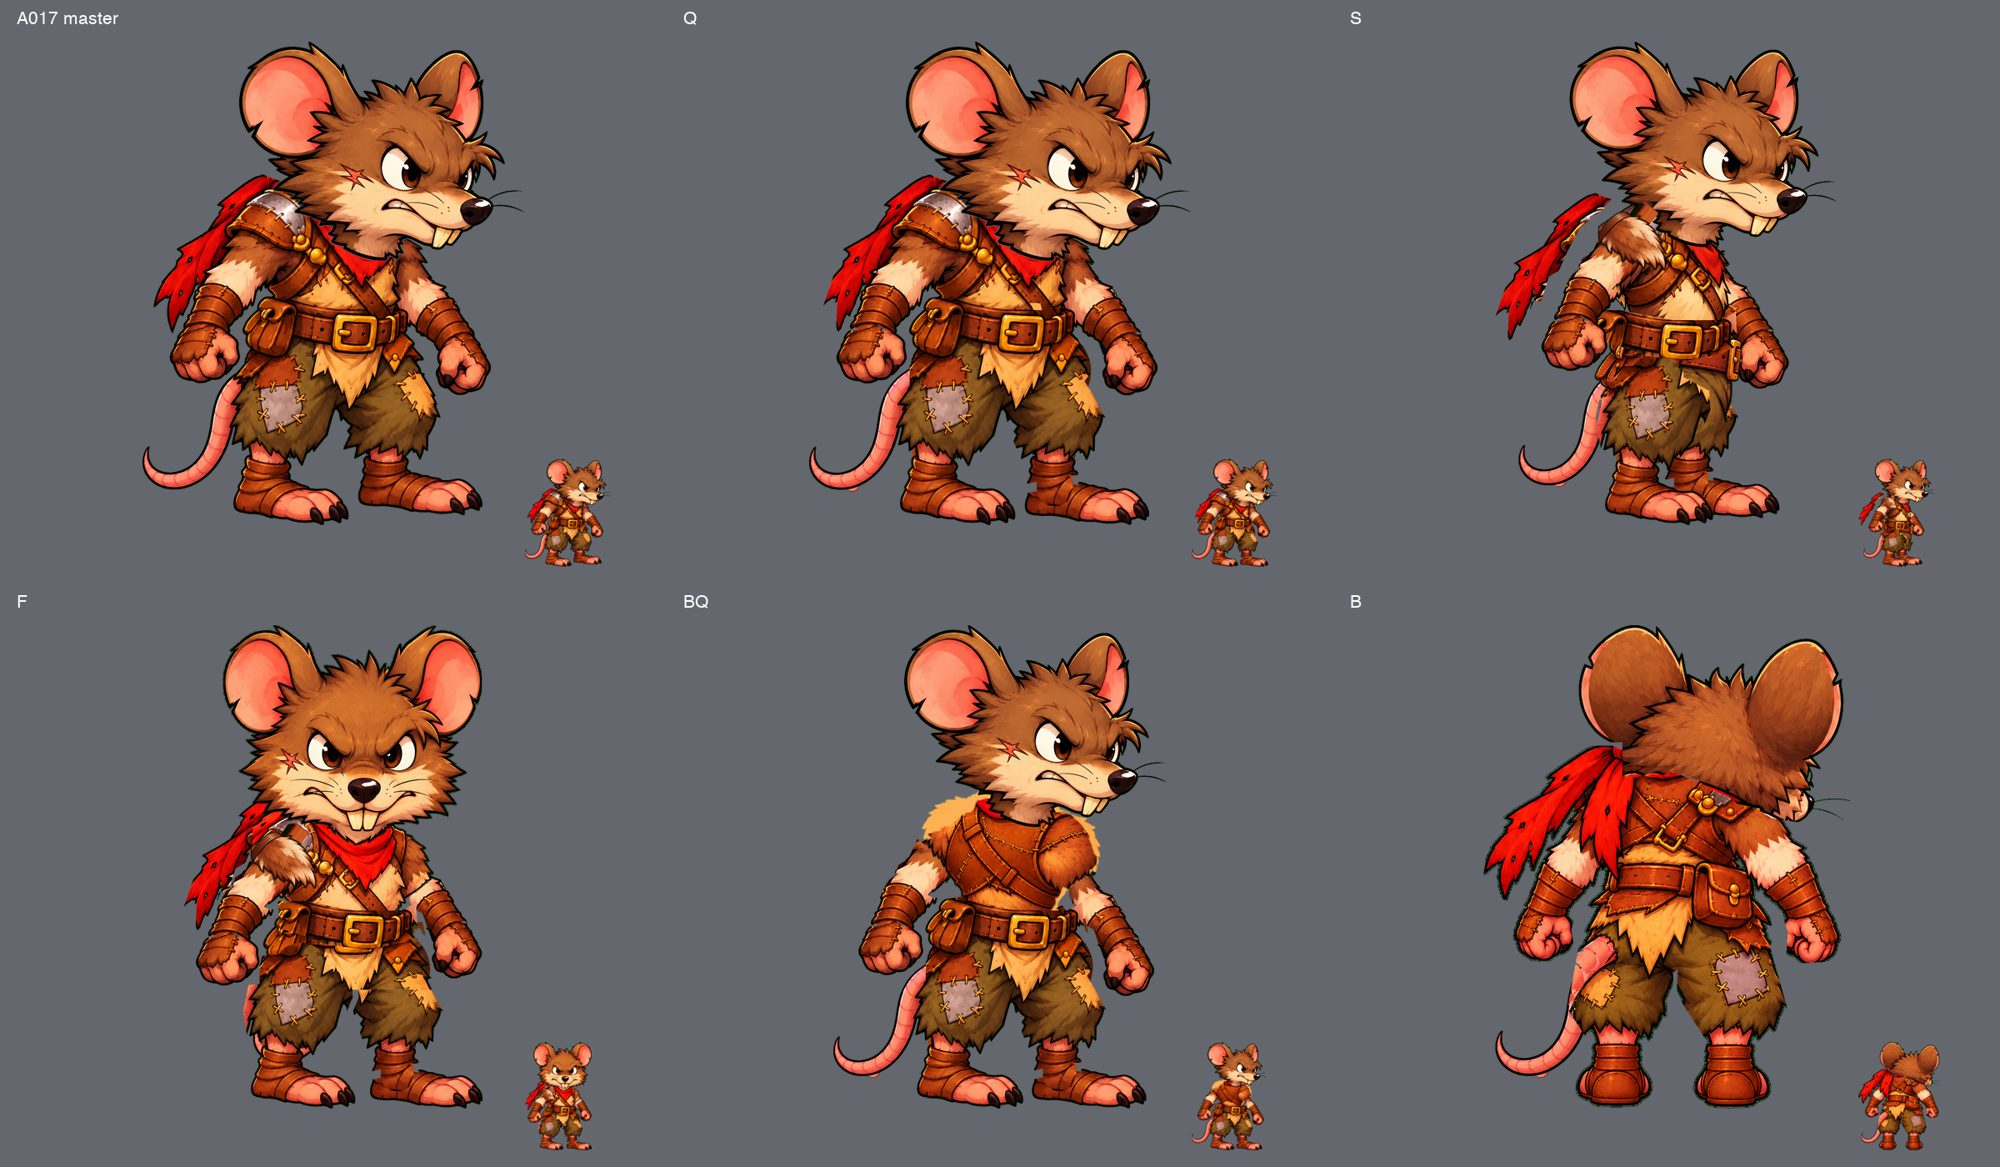
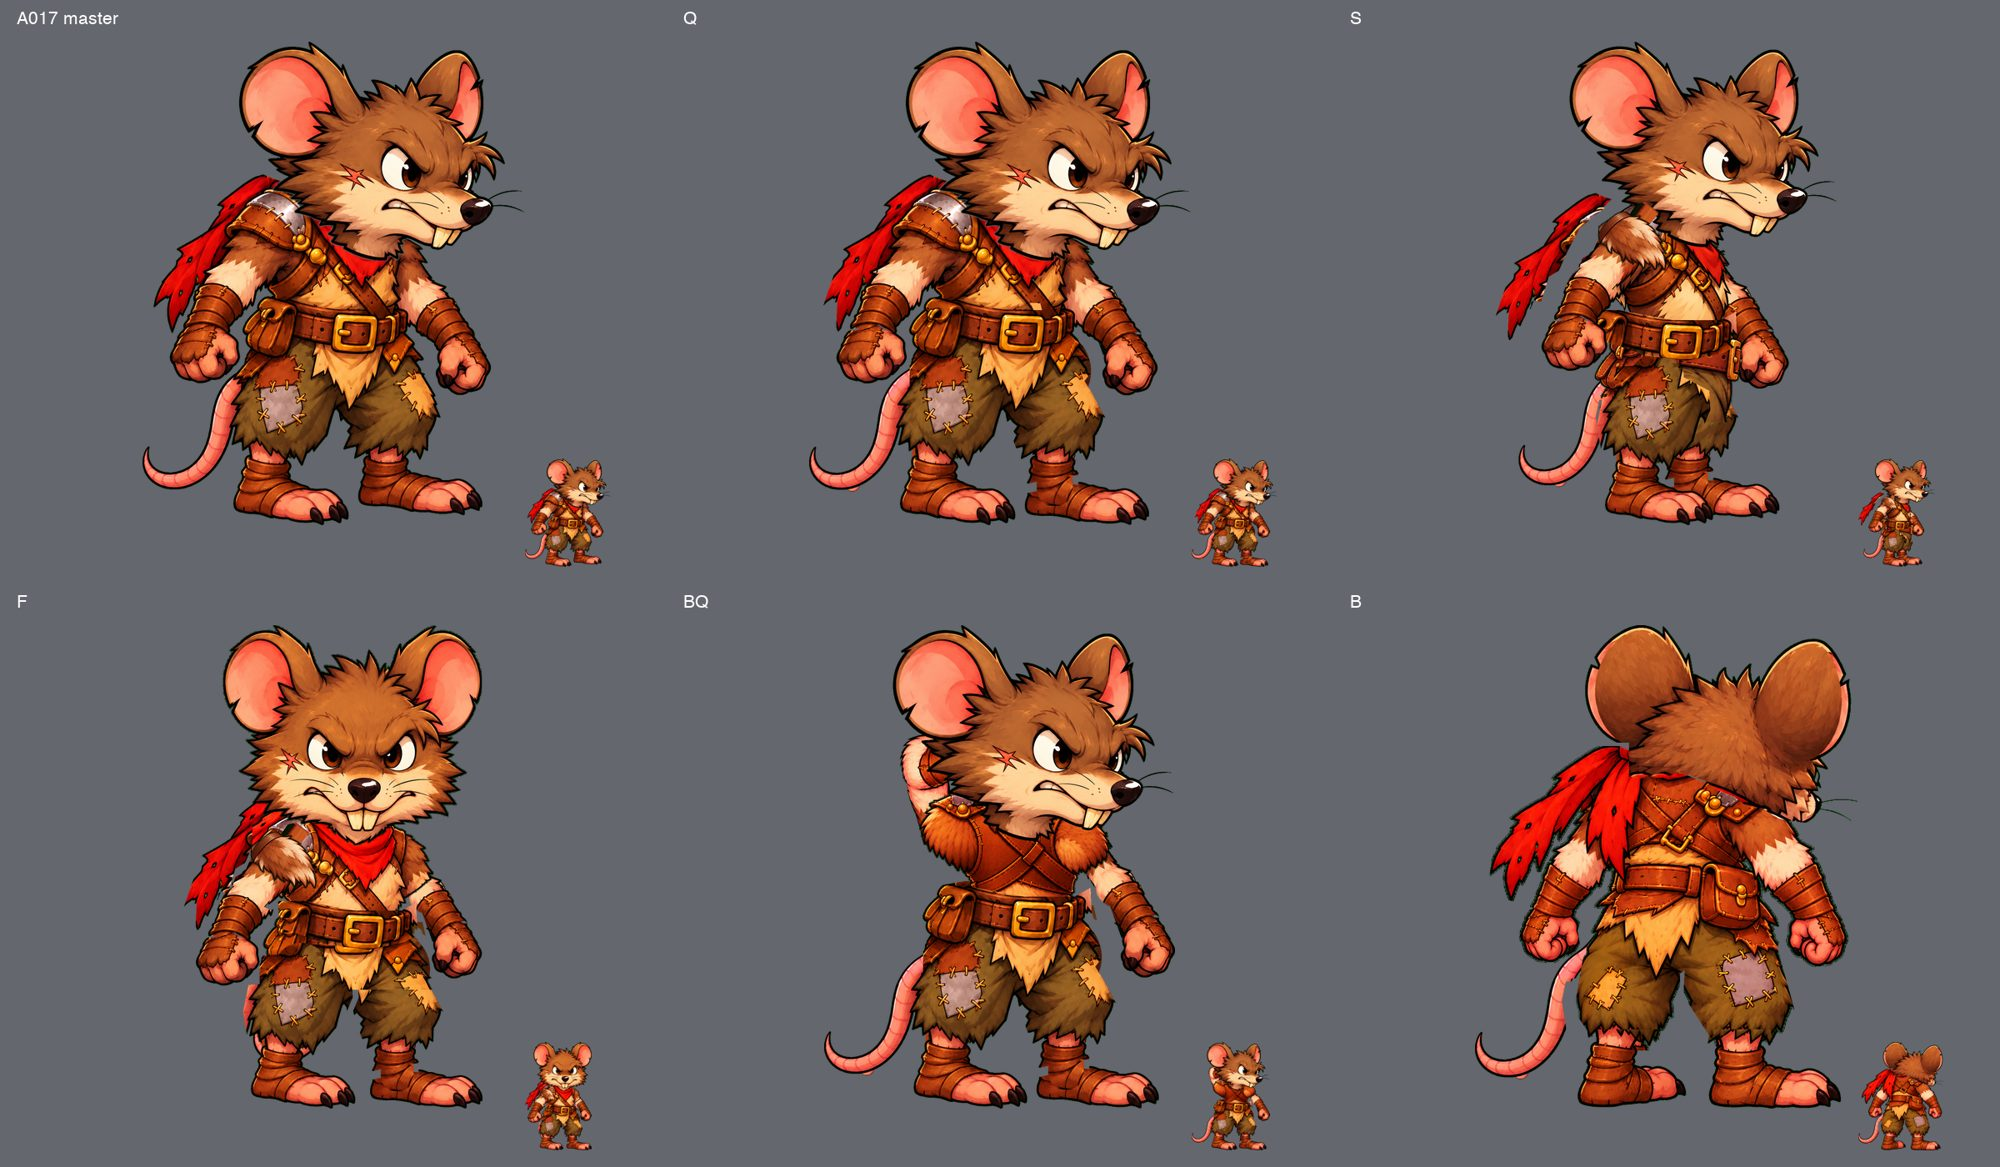
A023 round 3: fix rat rear feet, thumb and tail; redraw away torso

Changed region(s): [[0.713, 0.5244, 0.992, 0.9871], [0.403, 0.5244, 0.651, 0.9871], [0.806, 0.5244, 0.837, 0.5553]]

diff --git a/assets/source/A023-rat-complete-kit/HANDOFF.md b/assets/source/A023-rat-complete-kit/HANDOFF.md
@@ -1,91 +1,27 @@
-# A023 Round 2 — Rat repairs
+# A023 Round 3 — rear fixes and turned-away torso
 
-Branch: `a023-r2-rat-repairs`. Source delivery only; **do not merge automatically**. Built from main `0664c16` after pulling. Earlier A018/A019/A022 source folders are untouched.
+Branch: `a023-r3-rat-back-fixes`. Based on pulled main `03a06cf`. Source delivery; pushed for review, **do not merge automatically**.
 
-## Round 2 items 1–9
+## Delivered
 
-1. Extended both default thighs and all three whole-leg keys with hidden native cloth. Default thigh extensions are clipped beneath the resting torso/belt to avoid exposed cloth patches. Every torso and pelvis view has a deeper waist overlap; minimum central neutral overlap across all 28 combinations is 96 source px (requirement 40). `review-hips` isolates -30/0/+60 degree thigh rotations. This is a source joint proof, not a complete posed move.
-2. Front seat now continues into native upper-thigh material instead of a horizontal cropped edge. Back seat and rear thighs are cut from the same back drawing.
-3. Both shoulder caps are simplified fur/leather joint covers, with no duplicate metal trim or button row. The torso owns its baked pauldron. Show the cap only when the swung upper arm needs it; otherwise keep it hidden.
-4. Replaced `torso-away`; near shoulder attaches at the left/back edge and the wind-up arm is behind the body. Added all six requested back leg/foot cuts, plus rear upper/lower arms and hands for both sides. `torso-back` and `pelvis-back` use the matching back reference. Feet show heels toward camera. `review-back` compares the actual assembled BQ/B cuts with A017's back reference. Back head is still the inherited, unchanged head-back.
-5. The packet's `tools/bench/pose-seams-known.js` and pose-seam phone sheets are absent from this pulled main; no additional lead-listed joint list is present. No runtime tests or code were modified. Full T026/T028/T029 rehearsal is still required.
-6. Five split grip pairs: solid knuckle-side near side/overhand; existing near pinch split; new palm-side far grip; accepted far overhand split. Every pair includes `<name>-under`, same original hand pivot, handle centre/direction and layer order in `grips`. `review-grips` shows actual under → handle → face sandwiches. There is no shaft slot cut through either near grip back. Near grip edits start with the native-master fist, not a text-only generated hand.
-7. Added `belt.png`, a separate actual-master belt/buckle cut, child of pelvis at `(774,1460)`, band 640 above torso 600. Keep it pelvis-bound when the torso leans. The B view already has a rear belt on its seat: use that, not a front buckle over the back.
-8. Extended all seven flat/toe/heel/out feet and both rear feet. Tops are at or above y1680, at least 65 source px above the shared y1745 knee/hem reference. Existing foot extensions are 80–142 px beyond their old upper bounds. Shin bands are above feet in all views.
-9. Repaired only the embedded fist regions of `arm-near-cocked`, `arm-near-raised` (back of glove/knuckles) and `arm-far-raised-back` (palm). Forearm/upper-arm paint outside the wrist masks remains inherited, apart from replacing striped hidden near-shoulder extension material with native fur. `arm-near-mouth`, `arm-far-guard`, `arm-far-raised` are untouched.
+- `foot-near-back.png`, `foot-far-back.png`: recut from the approved A017 back reference, with heel toward camera and toes angled right. Matching `leg-near-lower-back.png` and `leg-far-lower-back.png` recuts remove the old straight-away heel painted into the lower shin. Feet continue to y1680 in anatomical B setup, 65 source px above y1745, hidden under shin/thigh.
+- `hand-near-back.png`: viewer-right B hand. Wider recut from the accepted round-2 rear drawing retains the whole thumb. Arm drawings and approved split grip pairs are untouched.
+- `pelvis-back.png`, `leg-far-upper-back.png`: local inpainting removes baked-in pink tail paint and reconstructs hidden cloth. Separate tail images are unchanged. The B tail bands now sit **below pelvis** and the rear tail anchor is `(490,1525)`, so the outlined tail emerges beside the trousers with its end covered. This supersedes the older view table's instruction to put the back tail in front.
+- `torso-away.png`: reference-guided back-panel redraw, crossed straps and back scarf knot, near shoulder drawn back. Same inherited torso pivot; updated neck/shoulder anchors. Q hips and existing neutral head are retained for the twisted wind-up; head looks back toward the right-hand target. No new pelvis-away or head drawing.
 
-## Import notes
+Eight changed cut PNGs, updated `rig-source.json`, `views.png`, `turn.png`, `review.png`, `review-views.png`, `review-back.png`, `review-r3-back.png`, `review-r3-turn.png`, exact prompts in `prompt.md`. Phone copies: `docs/screens/A023/r3-back.jpg` and `r3-turn.jpg`; overview and B/BQ copies refreshed. All new review JPGs are quality 82, long side <=2000.
 
-Merge this fragment after A018, A019, A022 and A023 round 1. Honor every entry's `source` path. New/repaired files are all in A023, on the unchanged 1536 × 2304 canvas and inherited pivots. No earlier source files or runtime files were changed.
+## Import and reproduce the proofs
 
-- `viewSwaps.B` selects all twelve rear limb cuts. **`viewJointPositions.B` records their anatomical rear setup positions**, used by the proof, while each image's pivot stays the inherited part pivot. Pose/attach these positions before rehearsing B; using Q lower-limb offsets will misalign the rear cuts. The maps are source metadata for Code to import, not implemented runtime behavior.
-- `grips[name].order` is `[under, held-item, face]`. The under image shares the hand pivot and must move with the same hand transform. It is not another independently posed hand. Do not put a weapon over a solid near-hand back.
-- `belt` is a normal `parts` entry. B uses its native rear belt; other views use the separate cover. Avoid drawing the buckle twice. Caps hide when the torso itself closes the shoulder.
-- Whole-arm swaps retain inherited `hide`, `itemGrip`, `slotDirection` and joint metadata. Embedded grip positions must be checked with actual cutlass/club/bow art in the viewer.
+Merge the fragment after prior A018/A019/A022/A023 data; honor each source path. All cut images are 1536 × 2304 on exact green, and all repaired pivots are unchanged. No runtime files were edited.
 
-## Files and reviews
-
-52 repaired/added cut PNGs (inventory below), updated `rig-source.json`, exact built-in imagegen prompts in `prompt.md`, all-source inventory `review.png`, readable `review-summary.png`, `review-back`, `review-grips`/`review-hands`, `review-hips`, `review-waist`, `review-arms`, `review-feet`, `review-rest`, `review-views`, `views.png`, `turn.png`. Existing untouched round-1 assets and `reference.png` remain in the kit. Every review image has a quality-82 JPG copy in `docs/screens/A023/`, longest side <=2000; the readable entry is `review-summary.jpg`.
+- Use the existing B `viewSwaps` and `viewJointPositions` for rear limbs; source pivots differ from assembled rear positions. Keep shin above foot and cuff above hand.
+- B `tail-1/2/3` bands are 300/310/320, below pelvis 400. Apply the updated pelvis-back tail anchor. Do not retain the old 430/440/450 tail bands.
+- `torso-away` neck `(805,1180)`, near shoulder `(550,1160)`, far shoulder `(982,1170)`, waist `(776,1382)`. Pivot remains `(776,1382)`. Near arm is entirely behind torso. `reviewPoses.BQ` records the source proof's cocked-arm transform; this is a static pose recipe, not a runtime change.
+- `turn.png` / `review-r3-turn.png` show Q → BQ → B at native cut scale and 136 px character height. `review.png` also shows 130 px assemblies over harbor art. These images are composed from delivered parts, not painted-over full characters.
 
 ## Validation and limitations
 
-All 52 cuts pass same-canvas, unchanged-pivot and single 8-connected foreground component checks after green keying. Source backgrounds are normalized to exact #00FF00. Neutral waist overlap and foot-top measurements are source checks; they do not establish every motion frame or every extreme lean.
+All eight changed cuts pass single 8-connected foreground, same-canvas, exact-green corner and unchanged-pivot checks. The new torso's central neutral overlap with the retained Q pelvis is at least **87 source px** (40 required). `round3Validation` records results. Scope is A023 sources, A023 phone copies and the A023 asset row only.
 
-Rest paint comparison: strong RGB differences (>40 in any channel) inside the eroded master silhouette are 2.6681%; 14,989 rest pixels change from the preceding assembled sources. `review-rest` shows master, before and after. This is not a pixel-identical-master claim.
-
-**Visible-paint preservation is not complete for the new back/away views and shoulder covers:** imagegen repainted those reference-guided surfaces. Hand edits also repaint the intended finger/glove regions. Rear cuts have straight hidden cut edges and must remain overlapped. Foot tongues and near-shoulder extensions contain stretched native material intended only under covers; they may expose unattractive paint at unsupported rotations. BQ's inherited ankle edge, wrist joins in the raised keys, cap transitions, seat transitions and all actual weapon holds still need the phone viewer and full move rehearsal. No G3/human acceptance or zero-runtime-seam claim is made. Nothing in the round-2 drawing inventory is intentionally omitted; runtime verification from item 5 remains open.
-
-## Repaired/added image inventory
-
-- `leg-near-upper.png`
-- `leg-far-upper.png`
-- `leg-near-kneeling.png`
-- `leg-near-kneeup.png`
-- `leg-far-folded.png`
-- `foot-near.png`
-- `foot-far.png`
-- `foot-near-toe.png`
-- `foot-far-toe.png`
-- `foot-near-heel.png`
-- `foot-far-heel.png`
-- `foot-near-out.png`
-- `torso.png`
-- `torso-side.png`
-- `torso-back.png`
-- `torso-front.png`
-- `torso-hunched.png`
-- `torso-lean-back.png`
-- `pelvis.png`
-- `pelvis-side.png`
-- `pelvis-front.png`
-- `pelvis-back.png`
-- `belt.png`
-- `shoulder-near.png`
-- `shoulder-far.png`
-- `leg-near-upper-back.png`
-- `leg-far-upper-back.png`
-- `leg-near-lower-back.png`
-- `leg-far-lower-back.png`
-- `foot-near-back.png`
-- `foot-far-back.png`
-- `arm-near-upper-back.png`
-- `arm-near-lower-back.png`
-- `hand-near-back.png`
-- `arm-far-upper-back.png`
-- `arm-far-lower-back.png`
-- `hand-far-back.png`
-- `torso-away.png`
-- `hand-near-grip.png`
-- `hand-near-grip-overhand.png`
-- `hand-far-grip.png`
-- `hand-near-grip-under.png`
-- `hand-near-grip-overhand-under.png`
-- `hand-near-pinch.png`
-- `hand-near-pinch-under.png`
-- `hand-far-grip-under.png`
-- `hand-far-grip-overhand.png`
-- `hand-far-grip-overhand-under.png`
-- `arm-near-cocked.png`
-- `arm-near-raised.png`
-- `arm-far-raised-back.png`
-- `arm-near-upper.png`
+The turned-away torso and tail-covered cloth are reference-guided repaint, not pixel-identical master paint. BQ retains Q hips and head for a torso-twist wind-up; the turn's anatomical readability still needs the user's viewer judgment. Hidden straight cut edges require the stated overlaps. Existing Q ankle notches and inherited rear head/scarf junction are outside this round. Runtime motion, extreme rotations, tail attachment and every rehearsal move still need Code's import and seam checks; no runtime or human-acceptance claim is made. No requested source drawing is intentionally omitted.

diff --git a/assets/source/A023-rat-complete-kit/prompt.md b/assets/source/A023-rat-complete-kit/prompt.md
@@ -253,3 +253,28 @@ undefined
 ```
 
 Processing: the native fist edit supplies both near grips; the overhand rotates the same solid knuckle face. Pinch and far overhand keep existing paint, split into two layers. Whole-arm edits are accepted above a wrist mask only; original forearm/upper-arm pixels are restored below. Back reference is cut into rear arms, legs, heels, torso and seat, each translated onto inherited pivots. `viewJointPositions.B` records the rear setup positions used in the proof. Hidden extensions use native material under original paint; default thighs are clipped to rest torso/belt coverage to avoid exposed patches. New view paint and cap paint are reference-guided redraws and are not pixel-identical master cuts.
+
+# Round 3 exact prompts
+
+Tool: built-in `image_gen.imagegen`, edit mode. No seed exposed. All calls use flat green backgrounds. Mechanical processing: green-key extraction, largest 8-connected component, source cut masks, uniform scale and pivot registration, layer composition. No procedural paint. Raw generations remain outside the repository.
+
+## 1
+
+```text
+Use case: identity-preserve. Edit reference 1 (approved rat back master), with reference 2 (current isolated torso) only as size/cut guidance. Redraw ONLY an isolated BACK THREE QUARTER torso, halfway between right-facing three-quarter and full back. Camera sees the broad BACK of brown leather vest with crossed straps, near shoulder blade and red scarf knot at upper LEFT; chest almost entirely hidden at RIGHT edge. The shoulder nearer camera is pulled BACK on screen LEFT; its arm will attach BEHIND the torso there. Opposite shoulder on screen RIGHT is foreshortened. Back leather plane must be unmistakeable: asymmetric diagonal back view, no frontal cream belly, no front chest breastplate, no symmetrical straight back. Include near small metal/leather pauldron at upper left shoulder, same costume as master. NO head, ears, arms, hands, belt, legs, tail, or loose scarf tails. Plain short hidden neck and waist continuation. Same warm painted cartoon, thick dark outlines, upper-left light and colors. Detached torso alone centered, about 540w by 470h native proportions, generous margin on flat exact #00FF00 green; no shadow/text.
+```
+
+## 2
+
+```text
+Edit this isolated torso to read unequivocally as the BACK of a leather vest turned diagonally away to screen right. Replace the front-looking V-shaped chest seams with a plain broad leather BACK PANEL and two leather straps crossing in a clear X across shoulder blades, like the approved rat back reference (second image). Keep scarf knot on screen LEFT at back of neck and small pauldron on screen LEFT. Rotate back plane farther away, right shoulder receding and narrower, left shoulder blade broad. NO cream chest/belly showing on front; lower short fur is back waist fur. No arms, head, belt, legs, tails, text or shadows. Preserve exact style, colors, detached torso and green background. A real three-quarter rear view between side and full rear.
+```
+
+## 3
+
+```text
+Precise-object-edit of this exact cropped rat back hip. REMOVE the pink tail completely, including black outline, from the LEFT hip. Reconstruct the hidden olive brown trouser fabric underneath where tail was covering the left thigh and seat. Give the left hip/seat a natural clean dark outlined silhouette curving from underneath the upper fur/vest near x160 y130 down to left thigh edge around x80 y330. Green background outside the trousers. Preserve all other visible pixels: belt, pouch, fur fringe, patch stitches, pants legs, skin and boots. Do not add any tail, pink streak, tail stub, extra object or text. Same size crop and exact #00FF00 background. This will be cut into pelvis and thigh rig parts; separate tail art goes behind these trousers.
+```
+
+
+Round 3 inputs: call 1 = A017 `master-back.png` and preceding A023 `torso-away.png`; call 2 = call 1 result and A017 `master-back.png`; call 3 = a native-scale crop `(430,1330,950,1830)` of the round-2 back drawing, with green outside the character. Call 2 supplies the final torso; call 3 is accepted only inside the tail-removal mask. Feet and rear shins are recut from A017 master-back; the clipped thumb is recut with a wider boundary from the accepted round-2 back drawing. No grip art changes. All intermediate images/scripts stay outside git.

diff --git a/docs/assets.md b/docs/assets.md
@@ -25,4 +25,4 @@
 | A019 | Rat Raider whole-limb key drawings (cocked, raised near arms; raised-back, guard far arms; kneeling, knee-up near legs; folded far leg) + toe-off feet + two cut fixes | game-ready (T026, 2026-10-17: all nine wired; lying shoulder / far hip and arms-up flags cleared; raised-back far arm not used by the archer, see T026 report) | Art | `assets/source/A019-rat-key-drawings/` (LFS): 9 pose/foot drawings, 2 replacements, rig-source fragment, review, prompts and HANDOFF; phone JPGs in `docs/screens/A019/`. Native A018 pivots; local bend repairs. Shoulder/hip clearance, far-arm occlusion and toe-off floor contact await import |
 | A021 | Weapon items for the flexibility test: dagger, round shield, hand axe, staff (held = floor art; measured grip points) | source; look approved by the user 2026-10-17 ("the weapon designs are good"); wired as items in the flexibility test | Art | `assets/source/A021-weapon-items/` (LFS): four PNGs, measured `weapons.json`, source-point and held/floor review, exact prompts and HANDOFF. Phone JPGs in `docs/screens/A021/`. 40/48/60/150 px sizes; staff grips 39.84 px apart. Static A018 fit only; runtime import and human look pending. |
 | A022 | Rat Raider joint repair: shoulders under the vest edge, all hands redone side-on from A017's fists (slot, not hole; wrist under the bracer), tail root under the trousers, islands removed | game-ready (T026 round 2, 2026-10-17: merged after A018 + A019 with its grips and bands; paint check 0.39% strong, largest blob 5 game px^2 (A010 0.92% / 11); no islands; tail root tucked in the walk; stretch: short hidden ends at the far wrists (up to 10.5 px on the spear's front fist) and the near shoulder with held items (2.5-5 px), listed; human motion review pending) | Art | `assets/source/A022-rat-joint-repair/` (LFS): 25 replacement cuts (one component each), rig-source fragment (grips, near upper band 590, hands 815/115), rest-diff, reviews, prompts, HANDOFF; phone JPGs in `docs/screens/A022/`. Watch in motion: shoulder ends past ~90 degrees, tail-1/tail-2 step |
-| A023 | Rat Raider complete kit: torso front / away / hunched / lean-back, pelvis side / front / back, head front / shout / drink, shoulder caps, far raised arm, arm to mouth, smear arms, palm / cup / point hands, heel-strike and out-turned feet, per-view anchors and bands, seam repairs | source: round 1 merged 2026-10-17; round 2 merged 2026-10-18 (split grips approved by the user; belt, feet, thighs, back-view cuts, redrawn fists); round 3 (B feet angle, B thumb and tail clipping, BQ redraw) ordered; import in T028 round 2 | Art | `assets/source/A023-rat-complete-kit/` (LFS) + `docs/screens/A023/`. Packet `docs/tasks/A023-rat-complete-kit.md`; why: `docs/design/rigs/rat-raider-rehearsal.md` |
+| A023 | Rat Raider complete kit: torso front / away / hunched / lean-back, pelvis side / front / back, head front / shout / drink, shoulder caps, far raised arm, arm to mouth, smear arms, palm / cup / point hands, heel-strike and out-turned feet, per-view anchors and bands, seam repairs | source: round 1 merged 2026-10-17; round 2 merged 2026-10-18 (split grips approved by the user; belt, feet, thighs, back-view cuts, redrawn fists); round 3 source delivered on `a023-r3-rat-back-fixes` (angled rear feet, whole thumb, covered tail root, BQ back-panel redraw; viewer review pending); import in T028 round 2 | Art | `assets/source/A023-rat-complete-kit/` (LFS) + `docs/screens/A023/`. Packet `docs/tasks/A023-rat-complete-kit.md`; why: `docs/design/rigs/rat-raider-rehearsal.md` |
